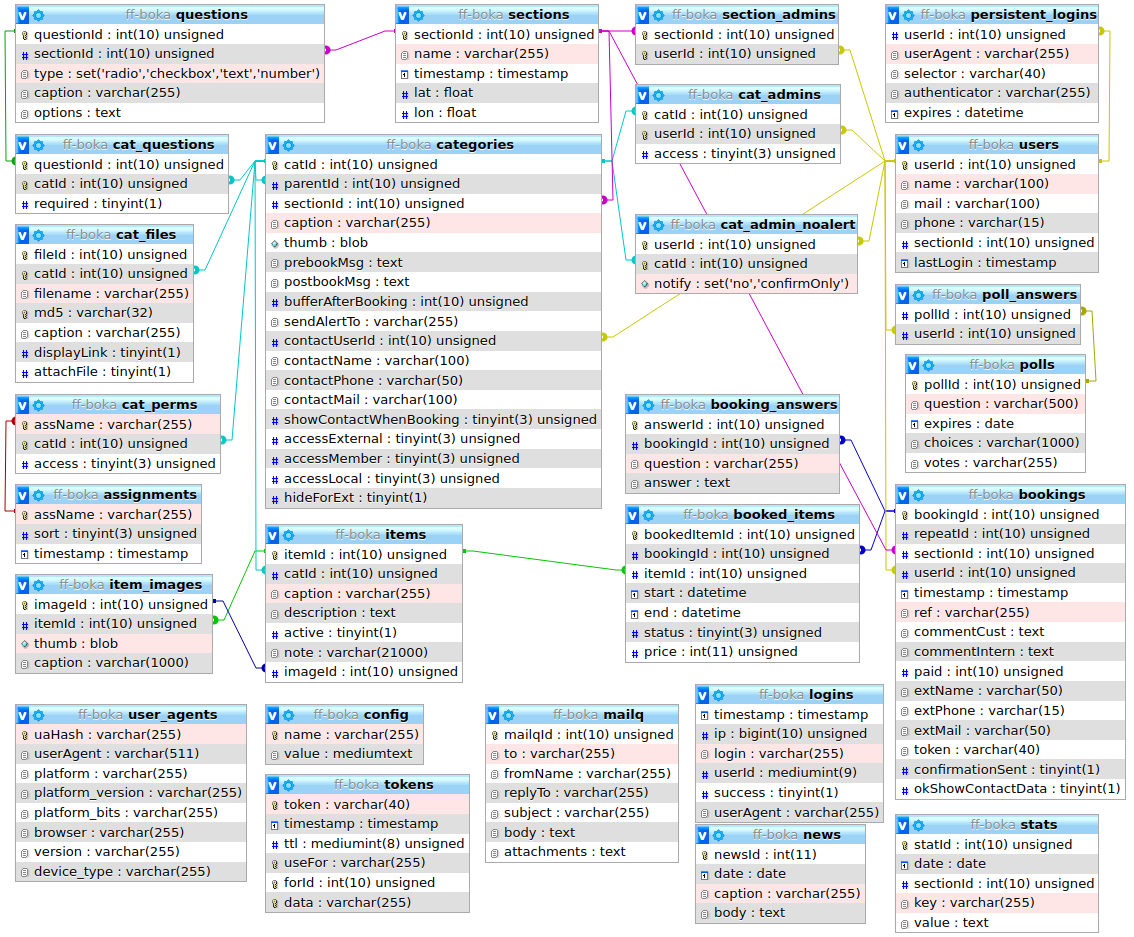
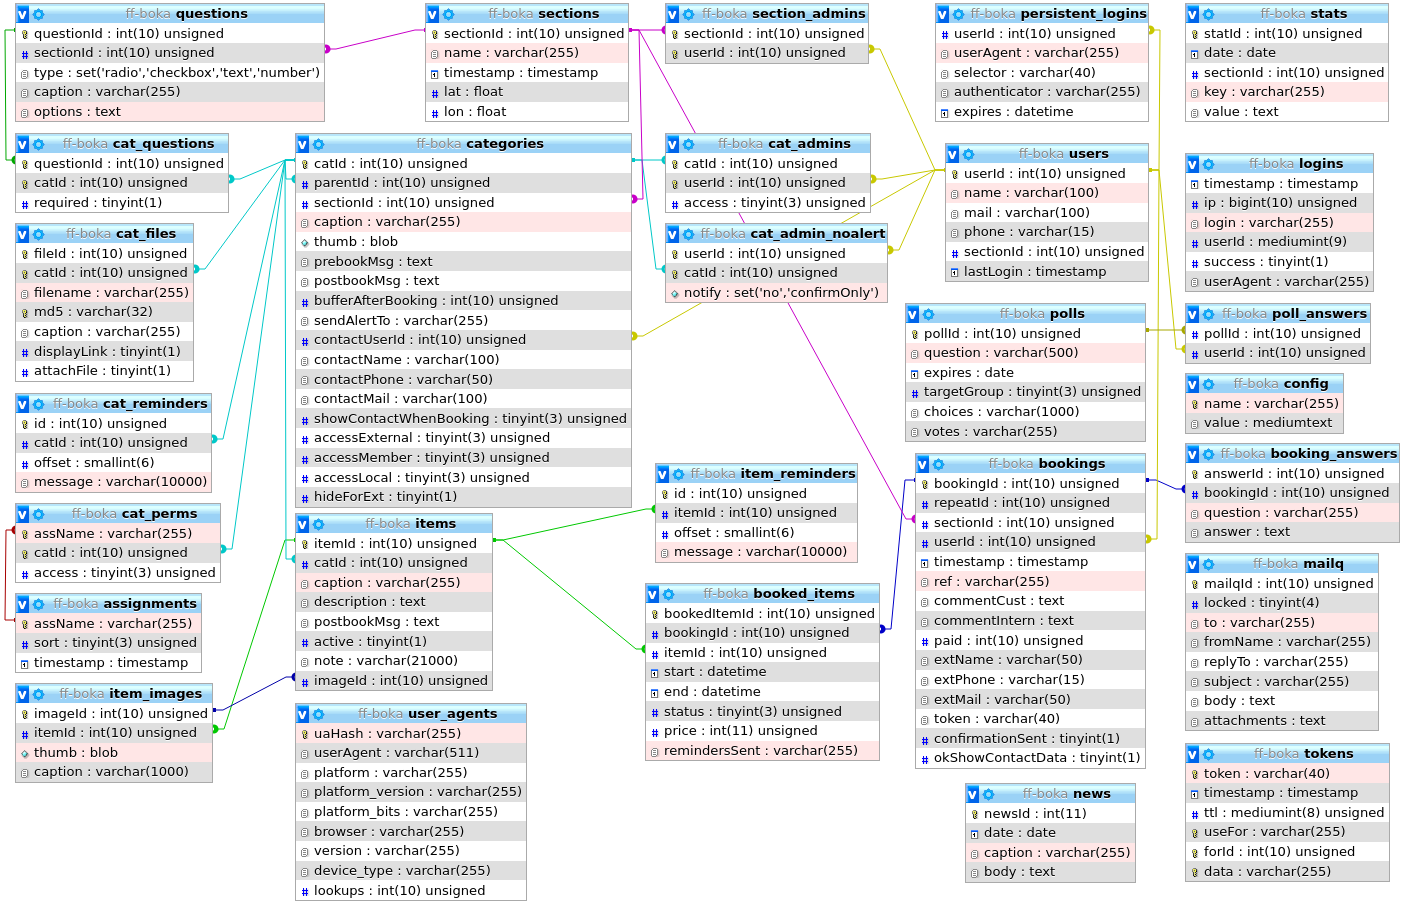
add category reminders to admin interface

diff --git a/inc/ff-boka.js b/inc/ff-boka.js
@@ -1318,7 +1318,9 @@ $(document).on('pageshow', "#page-admin-category", function() {
             }
         });
     });
-      
+
+    // Get reminders via ajax
+    getCatReminders();
 
     // Show message if there is any
     if ($("#msg-page-admin-category").html()) {
@@ -1451,6 +1453,42 @@ function toggleQuestion(id) {
     }, function(data, status) {
         $("#cat-questions").html(data.html).listview("refresh");
     });
+}
+
+/**
+ * Get the category reminders via ajax
+ */
+function getCatReminders() {
+    $.get( "category.php", { action: "ajaxGetReminders" } )
+    .done( function( data ) {
+        $("#cat-reminders").html( data ).listview("refresh");
+    })
+    .fail( function() {
+        $("#cat-reminders").html("<li><i>Kan inte hämta påminnelser.</i></li>");
+    });
+}
+
+function editCatReminder( id ) {
+    $.getJSON( "category.php", { action: "ajaxGetReminder", id: id } )
+    .done( function( data ) {
+        $("#cat-reminders-id").val( data ? data.id : 0 );
+        $("#cat-reminders-message").val( data ? data.message : "Fel: Påminnelsen hittades inte" );
+        $("#cat-reminders-offset").val( data ? data.offset : 0 );
+        $("#popup-cat-reminders").popup('open');    
+    });
+}
+
+function saveCatReminder() {
+    $.get( "category.php", {
+        action: "ajaxSaveReminder",
+        id: $("#cat-reminders-id").val(),
+        message: $("#cat-reminders-message").val(),
+        offset: $("#cat-reminders-offset").val()
+    } )
+    .done(function( data ) {
+        getCatReminders();
+    });
+    $("#popup-cat-reminders").popup('close');
 }
 
 

diff --git a/admin/category.php b/admin/category.php
@@ -205,6 +205,9 @@ switch ($_REQUEST['action']) {
 
 <h3>Bilagor</h3>
 <p>Här laddar du upp filer som du vill skicka med bokningsbekräftelser och/eller visa som länk i bokningsflödet. Det kan vara sådant som städrutiner, en särskild blankett du vill att användaren fyller i, körinstruktioner mm. Du kan ladda upp filer av typerna " . implode(", ", array_keys($cfg['allowedAttTypes'])) . ". Filstorleken får maximalt vara " . FFBoka::formatBytes($cfg['uploadMaxFileSize']). ". Rubriken är den text som visas för användaren på skärmen.</p>
+
+<h3>Påminnelser</h3>
+<p>Du kan ställa in att användarna får ett meddelande ett visst antal timmar före eller efter bokningsstart. Använd ett positivt antal timmar för påminnelser före bokningsstart, och negativa tal för påminnelser efter bokningsstart.</p>
 ";
         die();
     case "new":
@@ -396,8 +399,41 @@ switch ($_REQUEST['action']) {
         $cat->removeFile($_REQUEST['fileId']);
         header("Content-Type: application/json");
         die(json_encode([ "status"=>"OK", "html"=>showAttachments($cat) ]));
-        die();
-}
+
+    case "ajaxGetReminders":
+        if ( $cat->getAccess( $currentUser ) < FFBoka::ACCESS_CATADMIN ) {
+            http_response_code( 403 );
+            die();
+        }
+        $ret = array();
+        // Collect reminders of this category
+        foreach( $cat->reminders() as $reminder ) {
+            $ret[] = "<li data-icon='edit'><a href='#' onclick='editCatReminder({$reminder->id});'>" . $FF::formatReminderOffset( $reminder->offset ) . "<p>\"" . htmlspecialchars( $reminder->message ) . "\"</p></a></li>";
+        }
+        // Add inherited reminders
+        while ( !is_null( $cat = $cat->parent() ) ) {
+            foreach ( $cat->reminders() as $reminder ) {
+                $ret[] = "<li><strong>" . $FF::formatReminderOffset( $reminder->offset ) . "</strong><p>\"" . htmlspecialchars( $reminder->message ) . "\"<br><i><small>ärvt från kategori <a href='?catId={$cat->id}'>{$cat->caption}</p></a></small></i></li>";
+            }
+        }
+        $ret[] = "<li data-icon='plus'><a href='#' onclick='editCatReminder(0);'>Skapa ny påminnelse</a></li>";
+        if ( count($ret)==1 ) $ret[] = "<li style='white-space:normal;'><i><small>Här kan du ställa in påminnelser som ska skickas till användaren ett antal timmar före eller efter början på en bokning. Ett klassiskt användningsfall är att skicka ut passerkod strax innan bokningen.</small></i></li>";
+        die( implode( "", $ret ) );
+
+    case "ajaxGetReminder":
+        header("Content-Type: application/json");
+        if ($_GET['id']==0) die( json_encode( [ "id"=>0, "message"=>"Ny påminnelse", "offset"=>0 ] ));
+        die( json_encode( $FF->catReminder( $_GET['id'] ) ) );
+
+    case "ajaxSaveReminder":
+        if ( $cat->getAccess( $currentUser ) < FFBoka::ACCESS_CATADMIN ) {
+            http_response_code( 403 );
+            die();
+        }
+        if ( $_GET['id'] ) $cat->editReminder( $_GET['id'], $_GET['offset'], $_GET['message'] );
+        else $cat->addReminder( $_GET['offset'], $_GET['message'] );
+        die("OK");
+    }
 }
 
 unset ($_SESSION['itemId']);
@@ -418,6 +454,21 @@ unset ($_SESSION['itemId']);
         <a href='#' data-rel='back' class='ui-btn ui-btn-icon-left ui-btn-inline ui-corner-all ui-icon-check'>OK</a>
     </div>
     
+    <div data-role="popup" data-overlay-theme="b" id="popup-cat-reminders" class="ui-content">
+        <h3>Påminnelse</h3>
+        <input type="hidden" id="cat-reminders-id">
+        <div class="ui-field-contain">
+            <label for="cat-reminders-message">Meddelande</label>
+            <textarea id="cat-reminders-message" placeholder="T.ex. koden till hänglåset är 12345."></textarea>
+        </div>
+        <div class="ui-field-contain">
+            <label for="cat-reminders-offset">Timmar före (+) / efter (-) bokningsstart</label>
+            <input type="number" min="-8760" max="8760" id="cat-reminders-offset" placeholder="antal timmar">
+        </div>
+        <button class="ui-btn ui-btn-inline ui-btn-icon-left ui-icon-delete" onclick="deleteCatReminder();">Radera</button>
+        <button class="ui-btn ui-btn-inline ui-btn-icon-left ui-icon-check" onclick="saveCatReminder();">Spara</button>
+    </div>
+
     <div class="saved-indicator" id="cat-saved-indicator">Sparad</div>
 
     <div data-role="collapsibleset" data-inset="false">
@@ -620,7 +671,7 @@ unset ($_SESSION['itemId']);
             <h2>Bokningsfrågor</h2>
             <?php
             if ($questions = showQuestions($cat, $section)) {
-                echo "<p><i>Klicka på frågorna som ska visas i bokningsflödet. Frågor med blå bakgrund är aktiverade. Klicka en gång till för att göra frågan obligatorisk (<span class='required'></span>). Klicka en tredje gång för att avaktivera frågan.</i></p>";
+                echo "<p><i><small>Klicka på frågorna som ska visas i bokningsflödet. Frågor med blå bakgrund är aktiverade. Klicka en gång till för att göra frågan obligatorisk (<span class='required'></span>). Klicka en tredje gång för att avaktivera frågan.</small></i></p>";
                 echo "<ul data-role='listview' data-inset='true' id='cat-questions'>$questions</ul>";
             } else {
                 echo "<p><i>Inga frågor har lagts upp i din lokalavdelning än. Om du vill att någon fråga ska visas vid bokning i denna kategori, be LA-administratören att lägga upp frågan. Detta ska göras på LA-nivå. När detta har gjorts kommer upplagda frågor att dyka upp här så du kan välja ut de frågor som ska visas med din kategori.</i></p>";
@@ -641,11 +692,8 @@ unset ($_SESSION['itemId']);
 
         <div data-role="collapsible" class="ui-filterable" data-collapsed="<?= $_REQUEST['expand']=="reminders" ? "false" : "true" ?>">
             <h2>Påminnelser</h2>
-            <div id="cat-reminders"></div>
-            <p class="ui-body ui-body-a">
-                Ladda upp en ny bilaga:<br>
-                <input type='file' id='cat-file-file'>
-            </p>
+            <ul data-role="listview" id="cat-reminders">
+            </ul>
         </div>
         <?php } ?>
         

diff --git a/inc/ffboka/category.php b/inc/ffboka/category.php
@@ -5,6 +5,8 @@
  * @license GNU-GPL
  */
 namespace FFBoka;
+
+use Exception;
 use PDO;
 
 /**
@@ -718,5 +720,82 @@ class Category extends FFBoka {
                 }
             }
         }
+    }
+
+    /**
+     * Get all reminders of this category.
+     *
+     * @param boolean $includeInherited Set to true to include even inherited reminders from parent categories.
+     * @return array Array of objects { int id, int catId, int offset, string message }, where id is a unique
+     *  category reminder identifier, offset is the number of hours before (positive) or after (negative values)
+     *  the start of a booking when the reminder shall be sent, and message is the text to be sent.
+     */
+    public function reminders(bool $includeInherited=false) : array {
+        $parent = $this->parent();
+        $reminders = array();
+        if ($includeInherited && !is_null($parent)) {
+            $reminders = $parent->reminders(true);
+        }
+        $stmt = self::$db->query("SELECT * FROM cat_reminders WHERE catId={$this->id}");
+        while ($row = $stmt->fetch(PDO::FETCH_OBJ)) {
+            $reminders[] = $row;
+        }
+        return $reminders;
+    }
+
+    /**
+     * Add a reminder to the category
+     *
+     * @param integer $offset Number of hours before (+) or after (-) start of booking when the reminder shall be sent
+     * @param string $message The message to send with the reminder
+     * @return integer The ID of the created reminder
+     */
+    public function addReminder(int $offset, string $message) : int {
+        $stmt = self::$db->prepare("INSERT INTO cat_reminders SET catId={$this->id}, offset=:offset, message=:message");
+        $stmt->execute([
+            ":offset"=>$offset,
+            ":message"=>$message
+        ]);
+        return (int) self::$db->lastInsertId();
+    }
+
+    /**
+     * Edit the properties of a reminder
+     *
+     * @param integer $id The id of the reminder to change
+     * @param integer|NULL $offset Number of hours before (+) or after (-) start of booking when the reminder shall be sent
+     *  If set to NULL, the offset is not changed.
+     * @param integer|NULL $message The new message to send with the reminder. If set to NULL, the message is not changed.
+     * @return bool True on success, false on failure.
+     */
+    public function editReminder(int $id, int $offset=NULL, string $message=NULL) : bool {
+        if (!is_null($offset)) {
+            $stmt = self::$db->prepare("UPDATE cat_reminders SET offset=:offset WHERE catId={$this->id} AND id=:id");
+            if (!$stmt->execute([ ":offset"=>$offset, ":id"=>$id ])) {
+                logger(__METHOD__." Failed to change cat reminder. ".$stmt->errorInfo()[2], E_ERROR);
+                return false;
+            }
+        }
+        if (!is_null($message)) {
+            $stmt = self::$db->prepare("UPDATE cat_reminders SET message=:message WHERE catId={$this->id} AND id=:id");
+            if (!$stmt->execute([ ":message"=>$message, ":id"=>$id ])) {
+                logger(__METHOD__." Failed to change cat reminder. ".$stmt->errorInfo()[2], E_ERROR);
+                return false;
+            }
+        }
+        return true;
+    }
+
+    /**
+     * Delete a cat reminder
+     *
+     * @param integer $id The id of the reminder to delete
+     * @return bool True on success, false on failure
+     */
+    public function deleteReminder(int $id) : bool {
+        $stmt = self::$db->prepare("DELETE FROM cat_reminders WHERE catId={$this->id} AND id=?");
+        if ($stmt->execute([ $id ])) return true;
+        logger(__METHOD__." Failed to delete cat reminder. ".$stmt->errorInfo()[2], E_ERROR);
+        return false;
     }
 }

diff --git a/inc/ffboka/ffboka.php b/inc/ffboka/ffboka.php
@@ -359,7 +359,7 @@ class FFBoka {
             ":forId"=>$forId,
         ))) {
             logger(__METHOD__." Failed to create token. " . $stmt->errorInfo()[2], E_ERROR);
-            throw new \Exception($stmt->errorInfo()[2]);
+            throw new \Exception((string) $stmt->errorInfo()[2]);
         }
         return($token);
     }
@@ -422,6 +422,25 @@ class FFBoka {
     }
 
     /**
+     * Return a human readable representation of the offset of a reminder.
+     *
+     * @param integer $offset Number of hours before/after a booking
+     * @return string
+     */
+    static function formatReminderOffset( int $offset ) : string {
+        $dagar = round( abs( $offset/24 ) );
+        if ( $offset > 0 && $dagar > 1 ) return "$dagar dagar före bokningsstart";
+        if ( $offset > 18 && $dagar == 1 ) return "1 dag före bokningsstart";
+        if ( $offset > 1 ) return "$offset timmar före bokningsstart";
+        if ( $offset == 1 ) return "1 timme före bokningsstart";
+        if ( $offset == 0 ) return "vid bokningsstart";
+        if ( $offset == -1 ) return "1 timme efter bokningsstart";
+        if ( $offset >= -18 ) return (-$offset) . " timmar efter bokningsstart";
+        if ( $dagar == 1 ) return "1 dag efter bokningsstart";
+        return "$dagar dagar efter bokningsstart";
+    }
+    
+    /**
      * Add a new poll
      * @return \FFBoka\Poll
      */
@@ -452,7 +471,18 @@ class FFBoka {
         }
         return $polls;
     }
-    
+
+    /**
+     * Get the category reminder with ID $id.
+     *
+     * @param integer $id
+     * @return array|bool Returns an array with the members [ id, catId message, offset ] or FALSE if the reminder does not exist.
+     */
+    public function catReminder( int $id ) {
+        $stmt = self::$db->query( "SELECT * from cat_reminders WHERE id=$id" );
+        return $stmt->fetch( PDO::FETCH_ASSOC );
+    }
+
     /**
      * Get the next available ID for booking series
      * @return int

diff --git a/inc/version.php b/inc/version.php
@@ -3,4 +3,4 @@
 // is changed. The corresponding SQL code for the change must be stored in
 // resources/db/{$dbVersion}.sql and will be executed on the next invocation of
 // any page.
-$dbVersion = 22;
+$dbVersion = 23;
